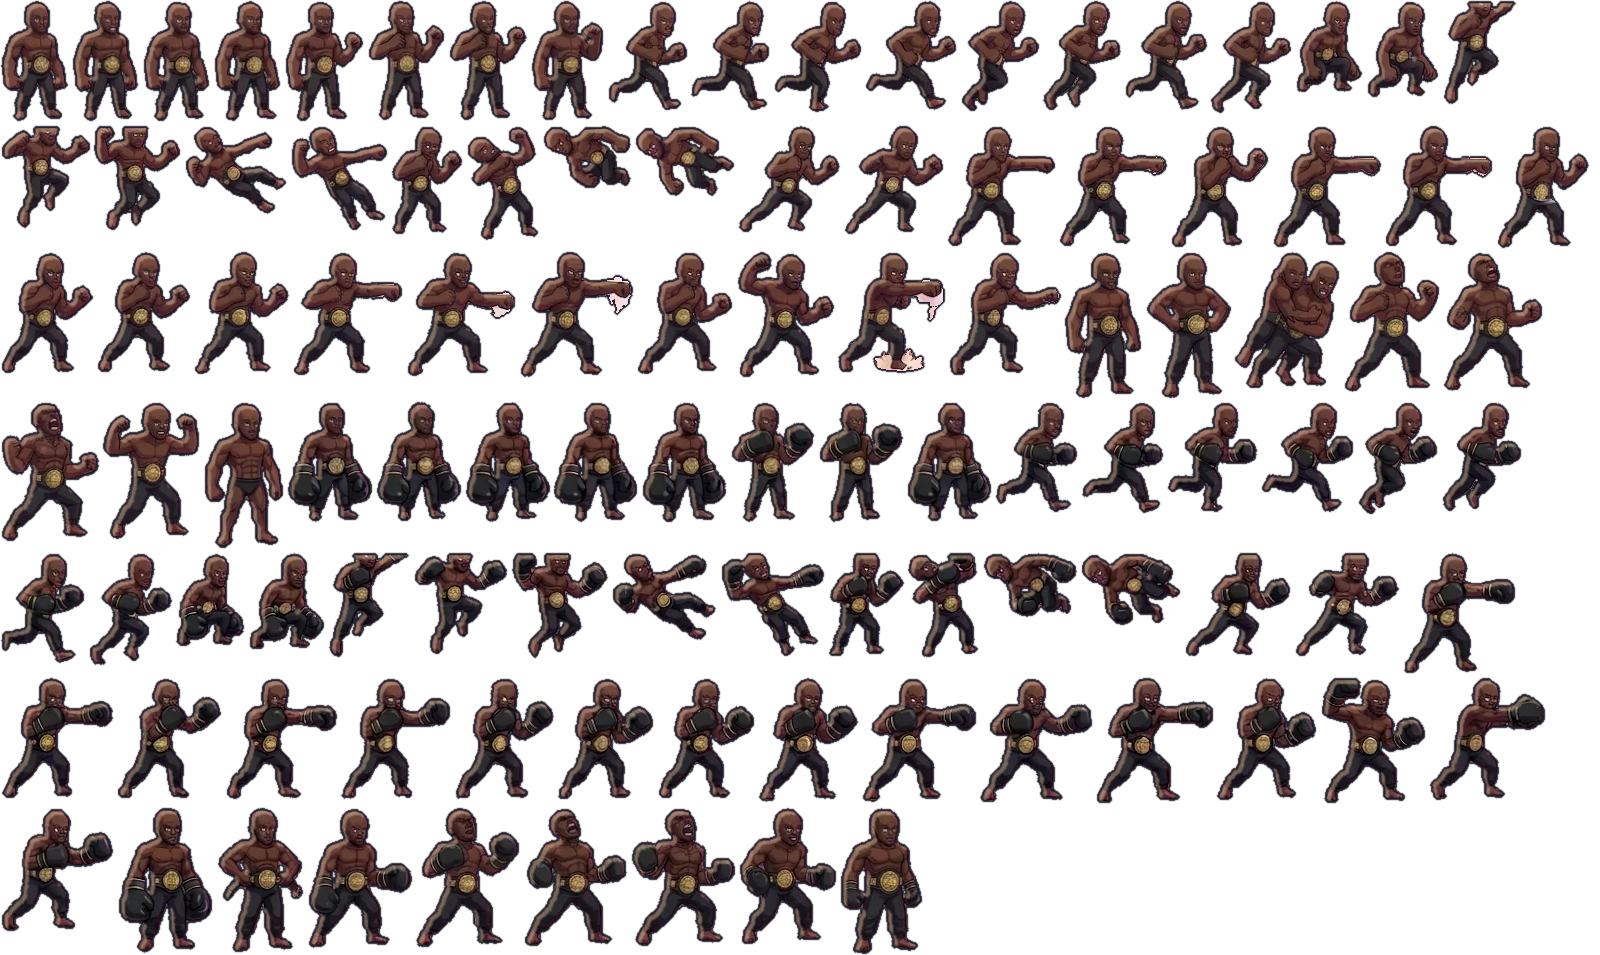
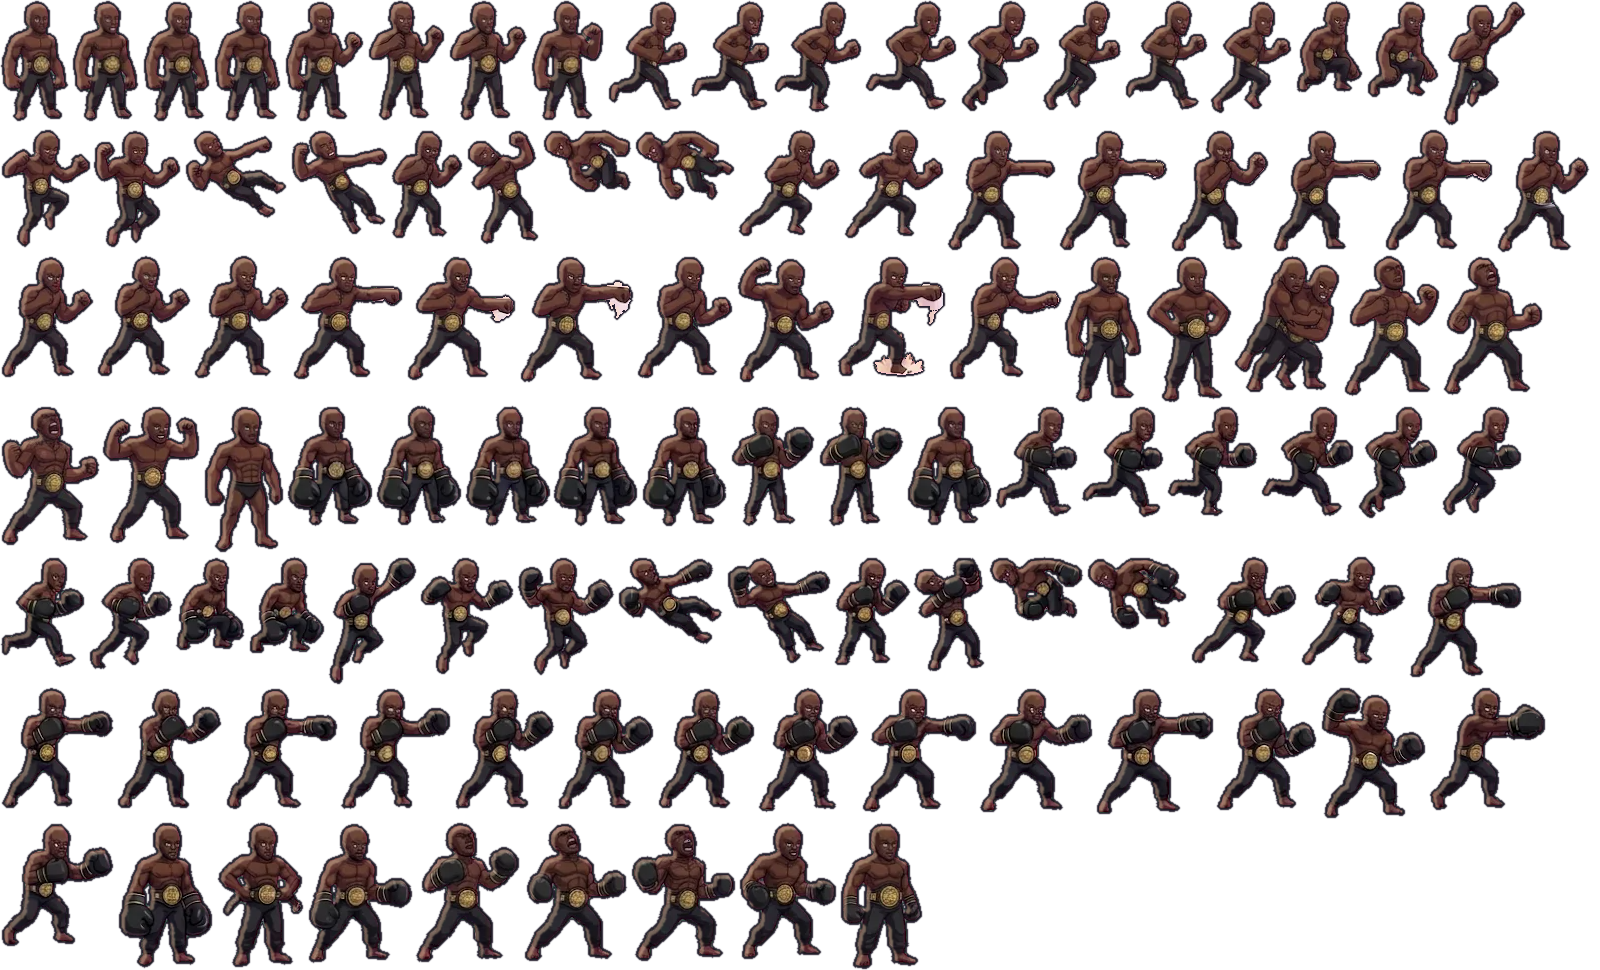
Crater Ifi: fix head cut off on jump/fall frames

diff --git a/public/index.html b/public/index.html
@@ -186,7 +186,7 @@ function ik(sx,sy,tx,ty,l1,l2,dr){const dx=tx-sx,dy=ty-sy,d=Math.min(Math.hypot(
 const SPR={img:new Image(),ok:false,pos:{"idle0":[0,0,55,114,27.7,111.0],"idle1":[57,0,60,115,30.1,112.0],"idle2":[119,0,54,115,27.5,112.0],"idle3":[175,0,55,115,28.0,112.0],"idle4":[232,0,54,115,27.0,112.0],"idle5":[288,0,54,115,26.9,112.0],"idle6":[344,0,54,115,27.1,112.0],"idle7":[400,0,59,115,30.4,112.0],"run0":[461,0,78,109,44.1,106.0],"run1":[541,0,77,108,41.9,105.0],"run2":[620,0,85,109,48.2,106.0],"run3":[707,0,87,110,51.1,107.0],"run4":[796,0,72,111,39.1,108.0],"run5":[870,0,86,109,56.1,106.0],"run6":[958,0,78,108,41.3,105.0],"run7":[1038,0,83,108,47.1,105.0],"pre":[1123,0,58,97,32.7,94.0],"crouch":[1183,0,70,106,39.3,103.0],"jump0":[1255,0,95,117,49.2,114.0],"jump1":[1352,0,90,118,47.2,115.0],"jump2":[1444,0,74,113,37.0,110.0],"fall0":[0,120,97,102,42.8,99.0],"fall1":[99,120,113,101,47.3,98.0],"fall2":[214,120,120,75,52.6,72.0],"fall3":[336,120,94,83,32.4,80.0],"dg0":[432,120,84,92,48.4,89.0],"dg1":[518,120,76,99,46.8,96.0],"dg2":[596,120,69,90,38.5,87.0],"jab0":[667,120,92,120,46.4,117.0],"jab1":[761,120,95,120,42.3,117.0],"jab2":[858,120,72,120,39.7,117.0],"lup0":[932,120,71,124,32.9,121.0],"lup1":[1005,120,69,126,37.6,123.0],"ldn0":[1076,120,83,109,52.3,106.0],"ldn1":[1161,120,103,108,71.2,105.0],"hc0":[1266,120,98,123,44.5,120.0],"hc1":[1366,120,126,121,67.5,118.0],"hs0":[1494,120,96,129,43.2,126.0],"hs1":[0,251,102,129,36.4,126.0],"hg0":[104,251,59,136,32.1,133.0],"hg1":[165,251,112,102,59.5,99.0],"ss0":[279,251,64,126,27.6,123.0],"ss1":[345,251,81,122,30.0,119.0],"ss2":[428,251,84,130,34.4,127.0],"ss3":[514,251,52,117,25.2,114.0],"su0":[568,251,57,106,32.4,103.0],"su1":[627,251,67,131,35.9,128.0],"su2":[696,251,64,132,33.6,129.0],"sd0":[762,251,58,102,29.0,99.0],"sd1":[822,251,68,133,35.1,130.0],"sd2":[892,251,86,92,48.3,89.0],"sd3":[980,251,60,92,33.0,89.0],"idlew0":[1042,251,82,118,41.6,115.0],"idlew1":[1126,251,83,118,42.3,115.0],"idlew2":[1211,251,84,118,42.6,115.0],"idlew3":[1297,251,82,118,41.8,115.0],"idlew4":[1381,251,81,118,41.1,115.0],"idlew5":[1464,251,82,118,41.8,115.0],"idlew6":[0,389,83,118,42.1,115.0],"idlew7":[85,389,82,118,41.4,115.0],"runw0":[169,389,111,113,58.6,110.0],"runw1":[282,389,110,113,58.0,110.0],"runw2":[394,389,115,112,59.1,109.0],"runw3":[511,389,113,115,59.5,112.0],"runw4":[626,389,113,115,58.5,112.0],"runw5":[741,389,114,113,59.2,110.0],"runw6":[857,389,112,112,57.9,109.0],"runw7":[971,389,113,113,58.7,110.0],"w_pre":[1086,389,92,102,49.8,99.0],"w_crouch":[1180,389,94,111,49.6,108.0],"w_jump0":[1276,389,136,123,70.3,120.0],"w_jump1":[1414,389,142,124,71.6,121.0],"w_jump2":[0,515,149,121,74.8,118.0],"w_fall0":[151,515,104,106,47.2,103.0],"w_fall1":[257,515,119,107,51.1,104.0],"w_fall2":[378,515,126,82,57.4,79.0],"w_fall3":[506,515,102,88,38.9,85.0],"dgw0":[610,515,112,96,60.3,93.0],"dgw1":[724,515,113,103,61.9,100.0],"dgw2":[839,515,97,93,53.4,90.0],"w_jab0":[938,515,149,123,62.0,120.0],"w_jab1":[1089,515,133,123,59.3,120.0],"w_jab2":[1224,515,142,124,62.5,121.0],"w_lup0":[1368,515,102,127,47.3,124.0],"w_lup1":[1472,515,126,149,68.5,146.0],"w_ldn0":[0,666,141,112,66.6,109.0],"w_ldn1":[143,666,138,112,64.7,109.0],"w_hc0":[283,666,126,129,63.8,126.0],"w_hc1":[411,666,248,127,110.0,124.0],"w_hs0":[661,666,141,147,63.3,144.0],"w_hs1":[804,666,159,145,72.6,142.0],"w_hg0":[965,666,103,181,51.8,178.0],"w_hg1":[1070,666,161,103,85.7,100.0],"w_th0":[1233,666,93,126,42.4,123.0],"w_th1":[1328,666,107,139,66.3,136.0],"w_th2":[1437,666,88,130,38.4,127.0],"w_ss0":[0,849,82,117,40.8,114.0],"w_ss1":[84,849,186,142,93.8,139.0],"w_ss2":[272,849,108,125,56.2,122.0],"w_su0":[382,849,83,107,37.9,104.0],"w_su1":[467,849,104,132,52.4,129.0],"w_sd0":[573,849,113,119,54.6,116.0],"w_sd1":[688,849,126,91,71.0,88.0]}};
 SPR.img.onload=()=>{SPR.ok=true};SPR.img.src='ara9.png';SPR.nw=8;SPR.ni=8;SPR.nr=8;SPR.nrw=8;SPR.fx=1;SPR.h=SPR.pos.idle0[3];SPR.fr={jab:['jab0','jab1','jab2'],lup:['lup0','lup1','lup1'],ldn:['ldn0','ldn1','ldn1'],hc:['hc0','hc0','hc1','hc1'],hs:['hs0','hs1','hs0','hs1'],hg:['hg0','hg0','hg1','hg1'],su:['su0','su1','su2'],sd:['sd0','sd1','sd2','sd3'],ss:['ss0','ss1','ss2','ss3'],th:['jab0','jab1','jab2']};SPR.frw={jab:['w_jab0','w_jab1','w_jab2'],lup:['w_lup0','w_lup1','w_lup1'],ldn:['w_ldn0','w_ldn1','w_ldn1'],hc:['w_hc0','w_hc0','w_hc1','w_hc1'],hs:['w_hs0','w_hs1','w_hs0','w_hs1'],hg:['w_hg0','w_hg0','w_hg1','w_hg1'],su:['w_su0','w_su1','w_su1'],sd:['w_sd0','w_sd0','w_sd1','w_sd1'],ss:['w_ss0','w_ss1','w_ss2','w_ss2'],th:['w_th0','w_th1','w_th2']};
 const SPRC={img:new Image(),ok:false,h:138,nw:5,pos:{"idle0":[0,0,97,173,49.0,170.0],"idle1":[99,0,102,172,47.8,169.0],"idle2":[203,0,99,170,48.9,167.0],"idle3":[304,0,93,170,46.5,167.0],"idle4":[399,0,96,170,45.9,167.0],"idle5":[497,0,90,170,40.0,167.0],"idle6":[589,0,92,170,41.6,167.0],"idlew0":[683,0,86,170,40.6,167.0],"idlew1":[771,0,90,170,43.7,167.0],"idlew2":[863,0,91,170,43.1,167.0],"idlew3":[956,0,90,170,43.1,167.0],"idlew4":[1048,0,88,170,40.2,167.0],"idlew5":[1138,0,89,170,41.3,167.0],"idlew6":[1229,0,94,170,41.9,167.0],"run0":[1325,0,116,142,57.6,139.0],"run1":[1443,0,115,139,62.4,136.0],"run2":[0,175,91,139,46.9,136.0],"run3":[93,175,108,142,59.9,139.0],"run4":[203,175,104,141,59.8,138.0],"run5":[309,175,121,141,67.9,138.0],"run6":[432,175,119,142,65.4,139.0],"crouch":[553,175,78,104,35.8,101.0],"jump2":[633,175,80,123,35.8,120.0],"jump1":[715,175,71,132,34.5,129.0],"jump0":[788,175,62,126,26.7,123.0],"fall0":[852,175,117,120,42.5,117.0],"fall1":[971,175,110,118,38.8,115.0],"fall2":[1083,175,141,119,36.9,116.0],"fall3":[1226,175,103,102,41.5,99.0],"dg0":[1331,175,90,101,54.3,98.0],"dg1":[1423,175,97,99,50.0,96.0],"dg2":[0,319,109,99,47.2,96.0],"jab0":[111,319,120,112,45.6,109.0],"jab1":[233,319,141,114,60.5,111.0],"jab2":[376,319,116,115,60.1,112.0],"jab3":[494,319,109,113,43.7,110.0],"lup0":[605,319,114,141,65.7,138.0],"lup1":[721,319,105,137,31.6,134.0],"ldn0":[828,319,113,98,50.8,95.0],"ldn1":[943,319,115,84,41.7,81.0],"ldn2":[1060,319,122,87,48.3,84.0],"ldn3":[1184,319,118,89,53.1,86.0],"hs0":[1304,319,110,138,54.4,135.0],"hs1":[1416,319,151,137,53.3,134.0],"hs2":[0,462,124,133,75.0,130.0],"hs3":[126,462,106,141,50.3,138.0],"hc0":[234,462,164,136,68.1,133.0],"hc1":[400,462,147,143,71.3,140.0],"hc2":[549,462,143,137,63.3,134.0],"hg0":[694,462,122,160,47.8,157.0],"hg1":[818,462,110,89,52.5,86.0],"hg2":[930,462,126,106,62.1,103.0],"hg3":[1058,462,128,95,57.9,92.0],"th0":[1188,462,119,139,56.6,136.0],"th1":[1309,462,136,132,59.8,129.0],"th2":[0,624,172,130,71.3,127.0],"ss0":[174,624,127,137,50.4,134.0],"ss1":[303,624,134,137,60.5,134.0],"ss2":[439,624,145,140,51.1,137.0],"su0":[586,624,106,179,41.9,176.0],"su1":[694,624,75,168,35.2,165.0],"su2":[771,624,86,178,43.1,175.0],"sd0":[859,624,122,106,68.2,103.0],"sd1":[983,624,105,104,54.5,101.0],"sd2":[1090,624,123,100,57.9,97.0]}};SPRC.img.onload=()=>{SPRC.ok=true};SPRC.img.src='chef8.png';SPRC.h=SPRC.pos.idle0[3];SPRC.ni=7;SPRC.nw=7;SPRC.nr=7;SPRC.fr={jab:['jab0','jab1','jab2','jab3'],lup:['lup0','lup1','lup1'],ldn:['ldn0','ldn1','ldn2','ldn3'],hc:['hc0','hc1','hc2'],hs:['hs0','hs1','hs2','hs3'],hg:['hg0','hg1','hg2','hg3'],su:['su0','su1','su2'],sd:['sd0','sd1','sd2'],ss:['ss0','ss1','ss2'],th:['th0','th1','th2']};
-const SPRCO={img:new Image(),ok:false,nw:8,ni:8,nr:8,nrw:8,pos:{"idle0":[0,0,69,123,32.3,120.0],"idle1":[71,0,69,122,32.3,119.0],"idle2":[142,0,69,123,32.5,120.0],"idle3":[213,0,69,123,32.6,120.0],"idle4":[284,0,81,123,37.5,120.0],"idle5":[367,0,79,122,37.9,119.0],"idle6":[448,0,80,122,38.2,119.0],"idle7":[530,0,75,122,38.5,119.0],"run0":[607,0,81,112,47.7,109.0],"run1":[690,0,81,112,50.2,109.0],"run2":[773,0,90,113,50.8,110.0],"run3":[865,0,93,111,53.6,108.0],"run4":[960,0,80,113,41.4,110.0],"run5":[1042,0,80,112,45.1,109.0],"run6":[1124,0,84,111,47.6,108.0],"run7":[1210,0,83,115,44.5,112.0],"crouch":[1295,0,69,94,32.5,91.0],"pre":[1366,0,74,98,36.6,95.0],"jump0":[1442,0,76,106,29.3,103.0],"jump1":[0,125,91,105,43.5,102.0],"jump2":[93,125,89,107,41.9,104.0],"fall0":[184,125,104,90,38.4,87.0],"fall1":[290,125,99,107,42.1,104.0],"fall2":[391,125,73,111,33.5,108.0],"fall3":[466,125,74,116,33.2,113.0],"dg0":[542,125,90,65,44.5,62.0],"dg1":[634,125,101,72,48.0,69.0],"dg2":[737,125,104,109,61.5,106.0],"x3":[843,125,102,111,55.9,108.0],"L0":[947,125,109,123,52.3,120.0],"L1":[1058,125,110,123,54.2,120.0],"L2":[1170,125,100,124,54.6,121.0],"L3":[1272,125,110,124,54.0,121.0],"L4":[1384,125,110,123,54.0,120.0],"L5":[1496,125,95,124,50.8,121.0],"L6":[0,251,94,124,50.0,121.0],"L7":[96,251,95,123,50.6,120.0],"H0":[193,251,97,124,50.5,121.0],"H1":[292,251,112,126,52.2,123.0],"H2":[406,251,111,127,54.1,124.0],"H3":[519,251,115,127,58.6,124.0],"H4":[636,251,98,125,52.8,122.0],"H5":[736,251,99,128,49.7,125.0],"H6":[837,251,109,123,62.6,120.0],"H7":[948,251,114,125,57.4,122.0],"T0":[1064,251,79,148,37.3,145.0],"T1":[1145,251,87,148,44.3,145.0],"T2":[1234,251,107,139,63.0,136.0],"T3":[1343,251,97,142,50.4,139.0],"T4":[1442,251,102,141,48.4,138.0],"T5":[0,401,100,141,45.8,138.0],"T6":[102,401,99,139,47.5,136.0],"T7":[203,401,82,149,39.7,146.0],"idlew0":[287,401,87,122,40.2,119.0],"idlew1":[376,401,87,122,41.0,119.0],"idlew2":[465,401,86,122,40.0,119.0],"idlew3":[553,401,86,123,40.4,120.0],"idlew4":[641,401,87,123,41.1,120.0],"idlew5":[730,401,86,122,42.6,119.0],"idlew6":[818,401,86,122,42.7,119.0],"idlew7":[906,401,87,122,41.5,119.0],"runw0":[995,401,84,113,48.8,110.0],"runw1":[1081,401,83,113,52.0,110.0],"runw2":[1166,401,92,113,53.1,110.0],"runw3":[1260,401,95,112,56.1,109.0],"runw4":[1357,401,82,115,42.9,112.0],"runw5":[1441,401,82,112,46.5,109.0],"runw6":[0,552,86,112,49.0,109.0],"runw7":[88,552,85,115,47.0,112.0],"w_crouch":[175,552,71,96,32.4,93.0],"w_pre":[248,552,78,99,37.2,96.0],"w_jump0":[328,552,83,106,28.3,103.0],"w_jump1":[413,552,96,104,44.4,101.0],"w_jump2":[511,552,98,107,48.0,104.0],"w_fall0":[611,552,107,90,41.7,87.0],"w_fall1":[720,552,106,105,46.3,102.0],"w_fall2":[828,552,77,106,36.0,103.0],"w_fall3":[907,552,73,107,33.4,104.0],"dgw0":[982,552,96,67,48.3,64.0],"dgw1":[1080,552,102,75,51.5,72.0],"dgw2":[1184,552,108,106,63.5,103.0],"w_x3":[1294,552,107,106,57.1,103.0],"w_L0":[1403,552,113,123,57.6,120.0],"w_L1":[0,677,114,123,58.9,120.0],"w_L2":[116,677,107,123,57.7,120.0],"w_L3":[225,677,113,124,57.6,121.0],"w_L4":[340,677,112,123,57.7,120.0],"w_L5":[454,677,101,123,55.0,120.0],"w_L6":[557,677,98,124,53.6,121.0],"w_L7":[657,677,99,123,53.5,120.0],"w_H0":[758,677,102,126,54.0,123.0],"w_H1":[862,677,115,127,56.0,124.0],"w_H2":[979,677,114,127,57.6,124.0],"w_H3":[1095,677,119,128,58.1,125.0],"w_H4":[1216,677,102,125,56.3,122.0],"w_H5":[1320,677,107,128,54.6,125.0],"w_H6":[1429,677,117,124,66.3,121.0],"w_H7":[0,807,115,125,61.9,122.0],"w_T0":[117,807,97,147,45.7,144.0],"w_T1":[216,807,89,147,44.4,144.0],"w_T2":[307,807,106,142,49.9,139.0],"w_T3":[415,807,106,142,53.8,139.0],"w_T4":[523,807,105,141,49.3,138.0],"w_T5":[630,807,106,141,49.9,138.0],"w_T6":[738,807,100,139,44.2,136.0],"w_T7":[840,807,84,148,39.7,145.0]}};SPRCO.h=SPRCO.pos.idle0[3];SPRCO.img.onload=()=>{SPRCO.ok=true};SPRCO.img.src='crat9.png';SPRCO.h=SPRCO.pos.idle0[3];SPRCO.fr={jab:['L7','L0','L1'],lup:['L2','L3','L3'],ldn:['L4','L5','L5'],hc:['H0','H1','H3','H3'],hs:['H2','H7','H2','H7'],hg:['H5','H5','H6','H6'],th:['T0','T1','T2'],ss:['T3','T4','T5','T5'],su:['jump0','T6','T6'],sd:['T4','T5','T5']};SPRCO.frw={jab:['w_L7','w_L0','w_L1'],lup:['w_L2','w_L3','w_L3'],ldn:['w_L4','w_L5','w_L5'],hc:['w_H0','w_H1','w_H3','w_H3'],hs:['w_H2','w_H7','w_H2','w_H7'],hg:['w_H5','w_H5','w_H6','w_H6'],th:['w_T0','w_T1','w_T2'],ss:['w_T3','w_T4','w_T5','w_T5'],su:['w_jump0','w_T6','w_T6'],sd:['w_T4','w_T5','w_T5']};
+const SPRCO={img:new Image(),ok:false,nw:8,ni:8,nr:8,nrw:8,pos:{"idle0":[0,0,69,123,32.3,120.0],"idle1":[71,0,69,122,32.3,119.0],"idle2":[142,0,69,123,32.5,120.0],"idle3":[213,0,69,123,32.6,120.0],"idle4":[284,0,81,123,37.5,120.0],"idle5":[367,0,79,122,37.9,119.0],"idle6":[448,0,80,122,38.2,119.0],"idle7":[530,0,75,122,38.5,119.0],"run0":[607,0,81,112,47.7,109.0],"run1":[690,0,81,112,50.2,109.0],"run2":[773,0,90,113,50.8,110.0],"run3":[865,0,93,111,53.6,108.0],"run4":[960,0,80,113,41.4,110.0],"run5":[1042,0,80,112,45.1,109.0],"run6":[1124,0,84,111,47.6,108.0],"run7":[1210,0,83,115,44.5,112.0],"crouch":[1295,0,69,94,32.5,91.0],"pre":[1366,0,74,98,36.6,95.0],"jump0":[1442,0,84,127,33.3,124.0],"jump1":[0,129,91,120,42.2,117.0],"jump2":[93,129,89,120,40.3,117.0],"fall0":[184,129,104,90,38.4,87.0],"fall1":[290,129,99,107,42.1,104.0],"fall2":[391,129,73,111,33.5,108.0],"fall3":[466,129,74,116,33.2,113.0],"dg0":[542,129,90,65,44.5,62.0],"dg1":[634,129,101,72,48.0,69.0],"dg2":[737,129,104,109,61.5,106.0],"x3":[843,129,102,111,55.9,108.0],"L0":[947,129,109,123,52.3,120.0],"L1":[1058,129,110,123,54.2,120.0],"L2":[1170,129,100,124,54.6,121.0],"L3":[1272,129,110,124,54.0,121.0],"L4":[1384,129,110,123,54.0,120.0],"L5":[1496,129,95,124,50.8,121.0],"L6":[0,255,94,124,50.0,121.0],"L7":[96,255,95,123,50.6,120.0],"H0":[193,255,97,124,50.5,121.0],"H1":[292,255,112,126,52.2,123.0],"H2":[406,255,111,127,54.1,124.0],"H3":[519,255,115,128,58.6,125.0],"H4":[636,255,98,125,52.8,122.0],"H5":[736,255,99,129,49.4,126.0],"H6":[837,255,109,123,62.6,120.0],"H7":[948,255,114,125,57.4,122.0],"T0":[1064,255,79,148,37.3,145.0],"T1":[1145,255,87,148,44.3,145.0],"T2":[1234,255,107,139,63.0,136.0],"T3":[1343,255,97,142,50.4,139.0],"T4":[1442,255,102,141,48.4,138.0],"T5":[0,405,100,141,45.8,138.0],"T6":[102,405,99,139,47.5,136.0],"T7":[203,405,82,149,39.7,146.0],"idlew0":[287,405,87,122,40.2,119.0],"idlew1":[376,405,87,122,41.0,119.0],"idlew2":[465,405,86,122,40.0,119.0],"idlew3":[553,405,86,123,40.4,120.0],"idlew4":[641,405,87,123,41.1,120.0],"idlew5":[730,405,86,122,42.6,119.0],"idlew6":[818,405,86,122,42.7,119.0],"idlew7":[906,405,87,122,41.5,119.0],"runw0":[995,405,84,113,48.8,110.0],"runw1":[1081,405,83,113,52.0,110.0],"runw2":[1166,405,92,113,53.1,110.0],"runw3":[1260,405,95,112,56.1,109.0],"runw4":[1357,405,82,115,42.9,112.0],"runw5":[1441,405,82,112,46.5,109.0],"runw6":[0,556,86,112,49.0,109.0],"runw7":[88,556,85,115,47.0,112.0],"w_crouch":[175,556,71,96,32.4,93.0],"w_pre":[248,556,78,99,37.2,96.0],"w_jump0":[328,556,89,129,33.8,126.0],"w_jump1":[419,556,96,120,44.4,117.0],"w_jump2":[517,556,98,120,46.6,117.0],"w_fall0":[617,556,107,90,41.7,87.0],"w_fall1":[726,556,106,108,46.4,105.0],"w_fall2":[834,556,77,111,36.6,108.0],"w_fall3":[913,556,73,117,33.5,114.0],"dgw0":[988,556,96,67,48.3,64.0],"dgw1":[1086,556,102,75,51.5,72.0],"dgw2":[1190,556,108,109,63.9,106.0],"w_x3":[1300,556,107,111,57.1,108.0],"w_L0":[1409,556,113,123,57.6,120.0],"w_L1":[0,687,114,123,58.9,120.0],"w_L2":[116,687,107,123,57.7,120.0],"w_L3":[225,687,113,124,57.6,121.0],"w_L4":[340,687,112,123,57.7,120.0],"w_L5":[454,687,101,123,55.0,120.0],"w_L6":[557,687,98,124,53.6,121.0],"w_L7":[657,687,99,123,53.5,120.0],"w_H0":[758,687,102,126,54.0,123.0],"w_H1":[862,687,115,127,56.0,124.0],"w_H2":[979,687,114,127,57.6,124.0],"w_H3":[1095,687,119,129,58.3,126.0],"w_H4":[1216,687,102,125,56.3,122.0],"w_H5":[1320,687,107,133,53.2,130.0],"w_H6":[1429,687,117,124,66.3,121.0],"w_H7":[0,822,115,125,61.9,122.0],"w_T0":[117,822,97,147,45.7,144.0],"w_T1":[216,822,89,147,44.4,144.0],"w_T2":[307,822,106,142,49.9,139.0],"w_T3":[415,822,106,142,53.8,139.0],"w_T4":[523,822,105,141,49.3,138.0],"w_T5":[630,822,106,141,49.9,138.0],"w_T6":[738,822,100,139,44.2,136.0],"w_T7":[840,822,84,148,39.7,145.0]}};SPRCO.h=SPRCO.pos.idle0[3];SPRCO.img.onload=()=>{SPRCO.ok=true};SPRCO.img.src='crat9.png';SPRCO.h=SPRCO.pos.idle0[3];SPRCO.fr={jab:['L7','L0','L1'],lup:['L2','L3','L3'],ldn:['L4','L5','L5'],hc:['H0','H1','H3','H3'],hs:['H2','H7','H2','H7'],hg:['H5','H5','H6','H6'],th:['T0','T1','T2'],ss:['T3','T4','T5','T5'],su:['jump0','T6','T6'],sd:['T4','T5','T5']};SPRCO.frw={jab:['w_L7','w_L0','w_L1'],lup:['w_L2','w_L3','w_L3'],ldn:['w_L4','w_L5','w_L5'],hc:['w_H0','w_H1','w_H3','w_H3'],hs:['w_H2','w_H7','w_H2','w_H7'],hg:['w_H5','w_H5','w_H6','w_H6'],th:['w_T0','w_T1','w_T2'],ss:['w_T3','w_T4','w_T5','w_T5'],su:['w_jump0','w_T6','w_T6'],sd:['w_T4','w_T5','w_T5']};
 const SPRS={img:new Image(),ok:false,nw:7,ni:6,nr:5,pos:{"idle0": [0, 0, 75, 139, 34.9, 132.0], "idle1": [77, 0, 76, 138, 34.4, 131.0], "idle2": [155, 0, 74, 138, 33.2, 131.0], "idle3": [231, 0, 75, 139, 34.0, 132.0], "idle4": [308, 0, 74, 138, 32.8, 131.0], "idle5": [384, 0, 72, 137, 34.5, 130.0], "idlew0": [458, 0, 76, 138, 34.1, 131.0], "idlew1": [536, 0, 76, 137, 35.0, 130.0], "idlew2": [614, 0, 75, 135, 34.0, 128.0], "idlew3": [691, 0, 77, 139, 33.1, 132.0], "idlew4": [770, 0, 74, 136, 32.0, 129.0], "idlew5": [846, 0, 74, 136, 32.0, 129.0], "idlew6": [922, 0, 75, 137, 33.0, 130.0], "run0": [999, 0, 111, 123, 59.6, 116.0], "run1": [1112, 0, 85, 127, 41.8, 120.0], "run2": [1199, 0, 91, 128, 45.1, 121.0], "run3": [1292, 0, 98, 126, 49.2, 119.0], "run4": [1392, 0, 99, 128, 48.3, 121.0], "jump0": [1493, 0, 100, 129, 51.0, 122.0], "jump1": [0, 141, 85, 140, 40.0, 133.0], "jump2": [87, 141, 85, 120, 41.0, 113.0], "fall0": [174, 141, 99, 117, 41.5, 110.0], "fall1": [275, 141, 110, 101, 46.2, 94.0], "fall2": [387, 141, 159, 102, 71.0, 95.0], "dg0": [548, 141, 127, 93, 74.2, 86.0], "dg1": [677, 141, 227, 91, 58.3, 84.0], "dg2": [906, 141, 134, 91, 69.3, 84.0], "jab0": [1042, 141, 75, 130, 37.0, 123.0], "jab1": [1119, 141, 76, 130, 40.0, 123.0], "jab2": [1197, 141, 149, 126, 63.8, 119.0], "lup0": [1348, 141, 71, 134, 35.9, 127.0], "lup1": [1421, 141, 99, 155, 40.1, 148.0], "ldn0": [0, 298, 165, 115, 46.4, 105.0], "hc0": [167, 298, 113, 120, 66.3, 113.0], "hc1": [282, 298, 206, 117, 62.4, 110.0], "hs0": [490, 298, 199, 128, 103.4, 80.0], "hg0": [691, 298, 212, 136, 103.0, 129.0], "th0": [905, 298, 118, 134, 66.6, 127.0], "th1": [1025, 298, 136, 133, 39.0, 126.0], "sd0": [1163, 298, 305, 140, 130.8, 130.0], "ss0": [0, 440, 393, 123, 101.3, 116.0], "su0": [395, 440, 179, 166, 77.4, 159.0]}};SPRS.h=SPRS.pos.idle0[3];SPRS.img.onload=()=>{SPRS.ok=true};SPRS.img.src='soc8.png';
 const SPRM={mus:SPR,chef:SPRC,com:SPRCO,ath:SPRS};
 function drawMus(p,S){if(p.inv>0&&!(p.dgT>0)&&(t>>2)%2)return;const c=p.ch,H=82*(p.bs||1),run=p.g&&Math.abs(p.vx)>.8,holding=p.wp&&p.wp.u>0;let key,ax=.5,idl=0;
